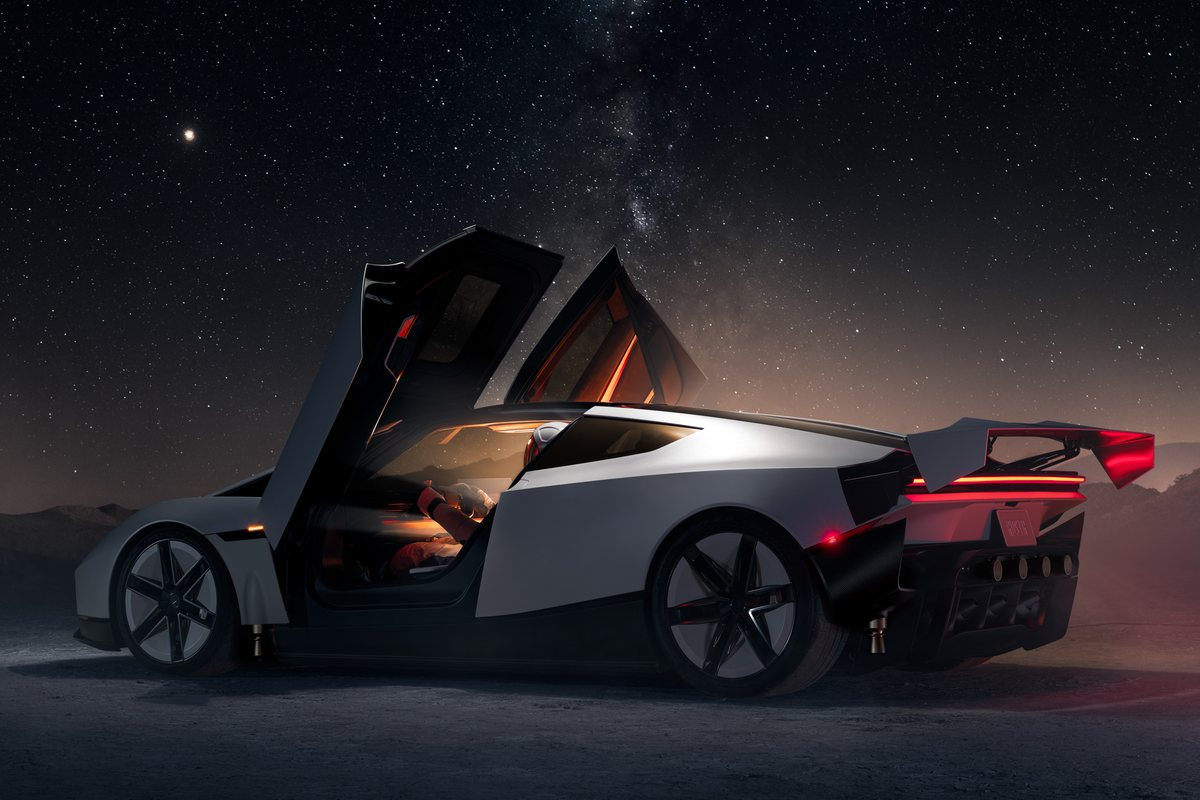
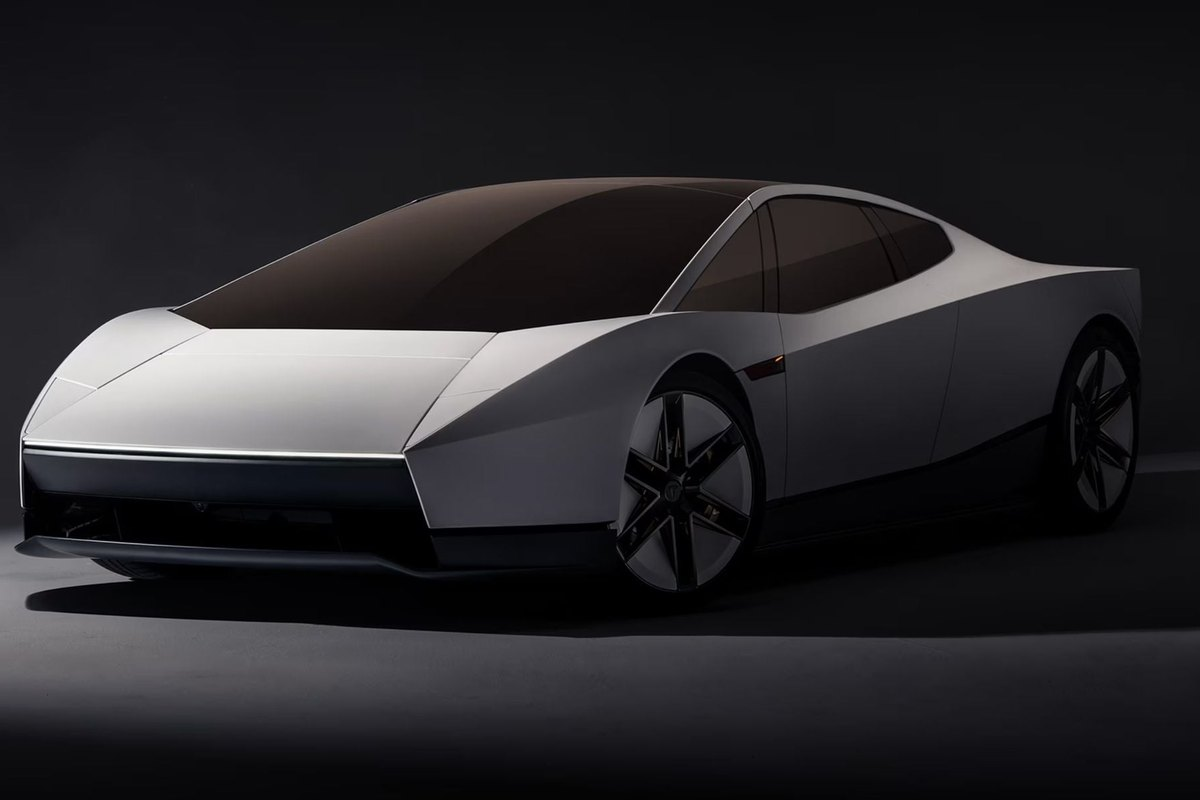
Vehicle-ography: brighter front three-quarter Roadster shot

diff --git a/cars.html b/cars.html
@@ -115,7 +115,7 @@
         </div>
       </article>
       <article class="car" id="roadster">
-        <div class="pics one"><figure class="photo"><img src="images/cars/roadster.jpg" width="1200" height="800" alt="The new Tesla Roadster at night, doors up and rear wing deployed" loading="lazy"></figure></div>
+        <div class="pics one"><figure class="photo"><img src="images/cars/roadster.jpg" width="1200" height="800" alt="The new Tesla Roadster from the front three-quarter, in a studio" loading="lazy"></figure></div>
         <div class="car-copy">
           <div class="label"><span class="vnum">08</span><span class="yr">2022–2026</span>California</div>
           <h2>Tesla Roadster</h2>
